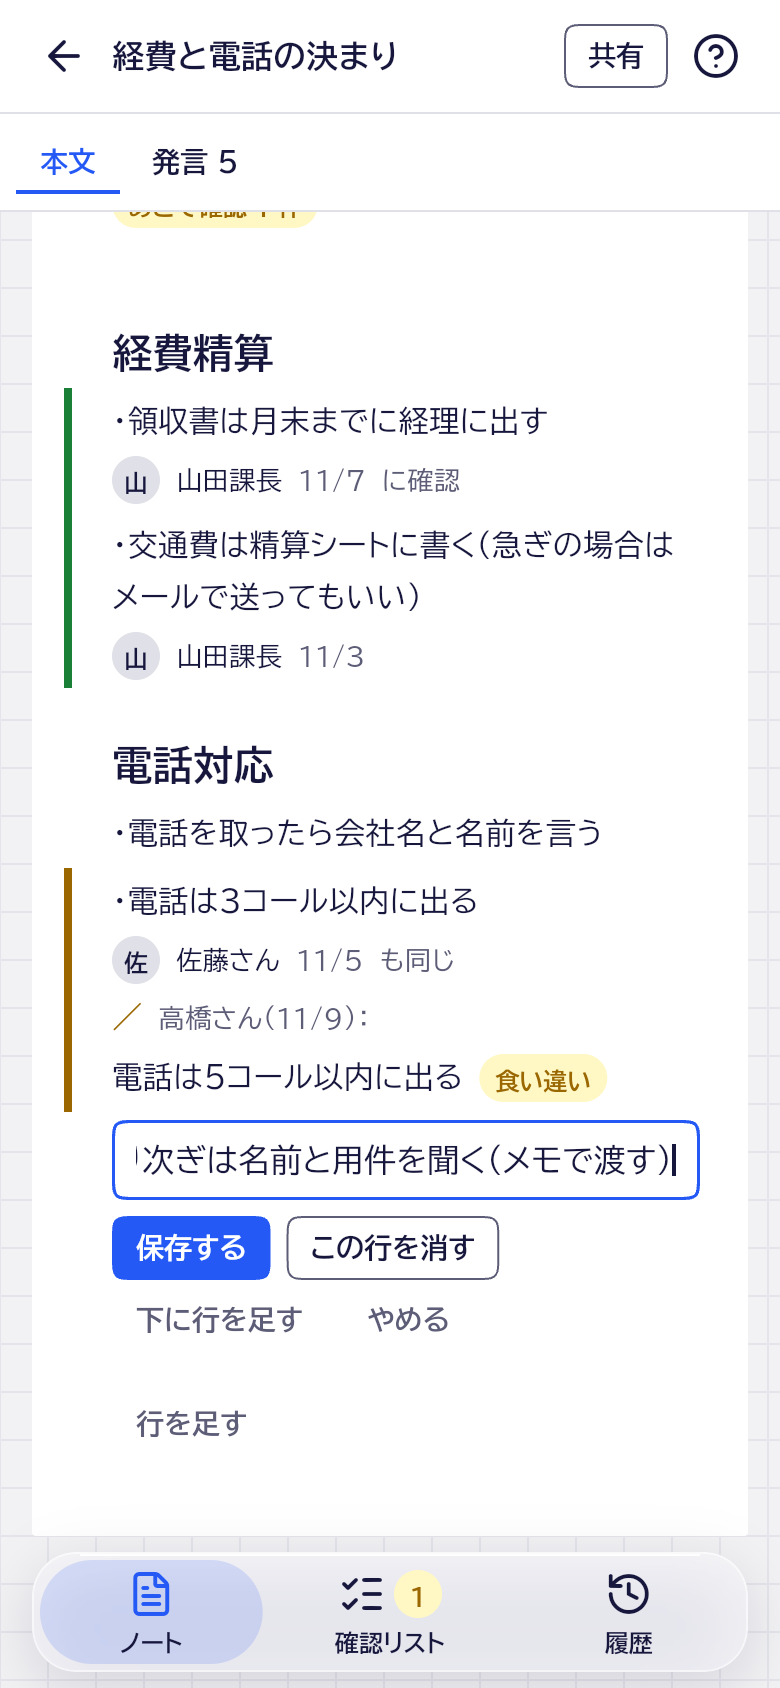
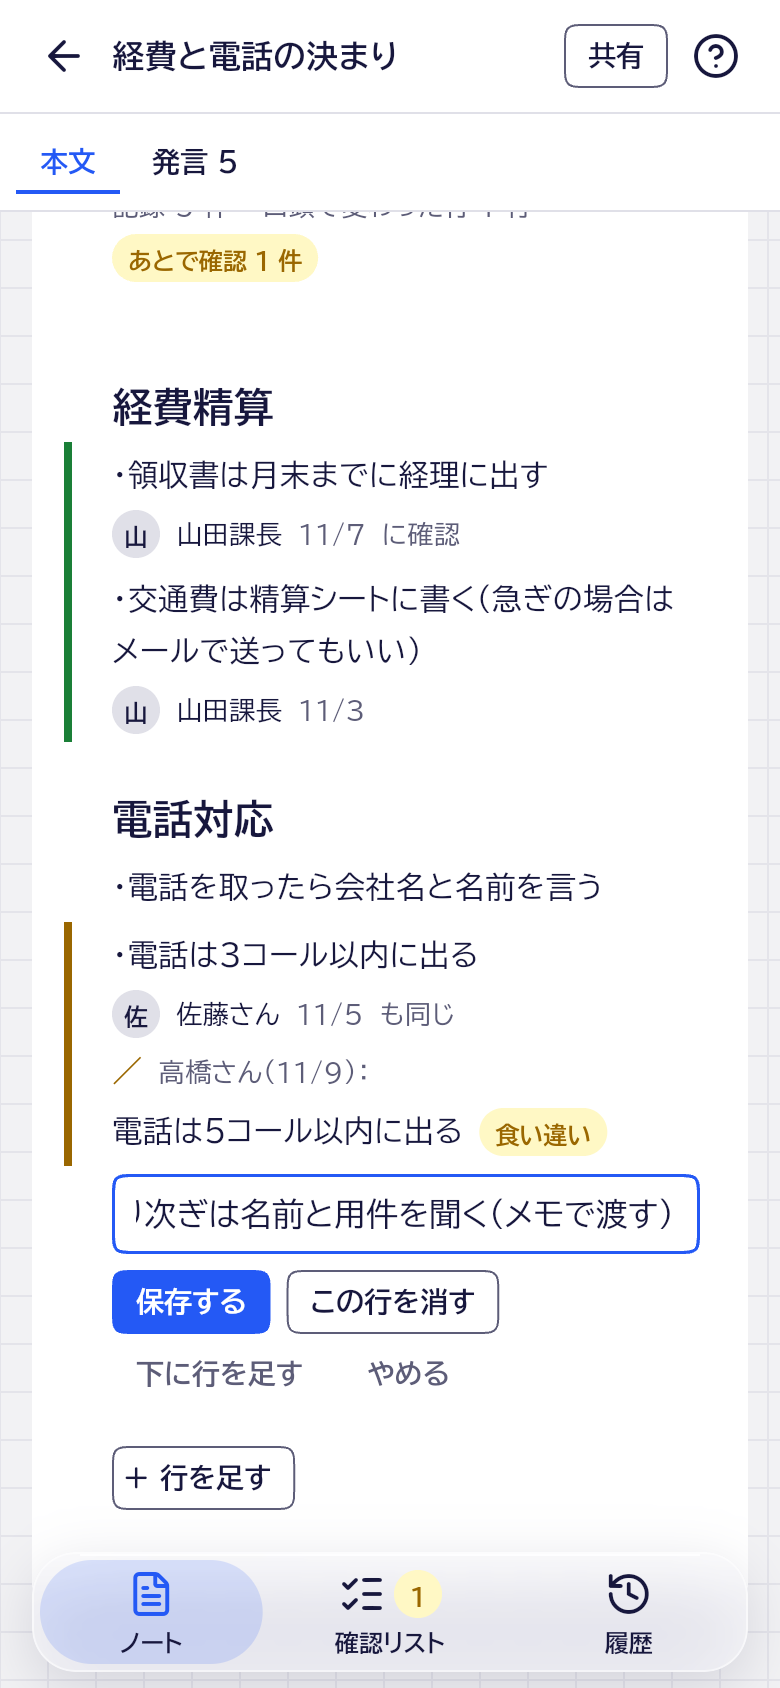
docs(app): 使い方の「直接編集」「書き込む前の確認」「共有」の画像を今の画面で撮り直す
- edit・share(PC・スマホ): 「行を足す」が枠のボタンと＋になった(#76)。share にもノートの「行を足す」が写っている
- review(PC・スマホ): 迷う所が無ければ先に書き込み、知らせの「確かめる」から開く流れになった(#78)。確認の中の行は「反映済み」
- ほかの画像は撮った後に画面が変わっていないので触っていない
- README の撮り方に、1枚ごとに API を立て直すことと、review の行が「反映済み」になることを足した
(調査18 の A1・A2)

diff --git a/app/assets/help/README.md b/app/assets/help/README.md
@@ -31,4 +31,5 @@
 1. 上の例だけを入れたメモリ上の API を、普段の API（8787）とは別のポートで立てる。`api/src/seed.ts` の `seedWithHistory` と同じように store に直接入れ、AI は偽物（`fake-ai.ts`）にする。偽物は発言者を「〇〇さん・先輩・店長」などでしか読まないので、例文はその形にする
 2. アプリをその API に向けて起動する：`fvm flutter run -d web-server --web-hostname 127.0.0.1 --web-port 8081 --dart-define=API_URL=http://localhost:<そのポート>`
 3. Chrome で開いて撮る。スマホの幅は `--force-device-scale-factor=2` で開いた Chrome で、幅を 390 にして撮る。リワインドは `--use-fake-device-for-media-stream --use-fake-ui-for-media-stream` で偽のマイクを使い、未整理メモは localStorage の `flutter.memos` に入れる
-4. 押す前の状態（入力・ノートを作る・行の編集）は文字を入れたところで、「書き込む前の確認」は「ノートと照らし合わせる」を押した後の知らせの「確かめる」を押したところで撮る
+4. 押す前の状態（入力・ノートを作る・行の編集）は文字を入れたところで、「書き込む前の確認」は「ノートと照らし合わせる」を押した後の知らせの「確かめる」を押したところで撮る（迷う所が無いので先に書き込まれ、確認の中の行は「反映済み」になる）
+5. API はメモリ上なので、照らし合わせや共有をすると記録が残る。1枚撮るごとに API を立て直し、上の例だけの状態から撮る（前の画像の記録が写り込まないように）
